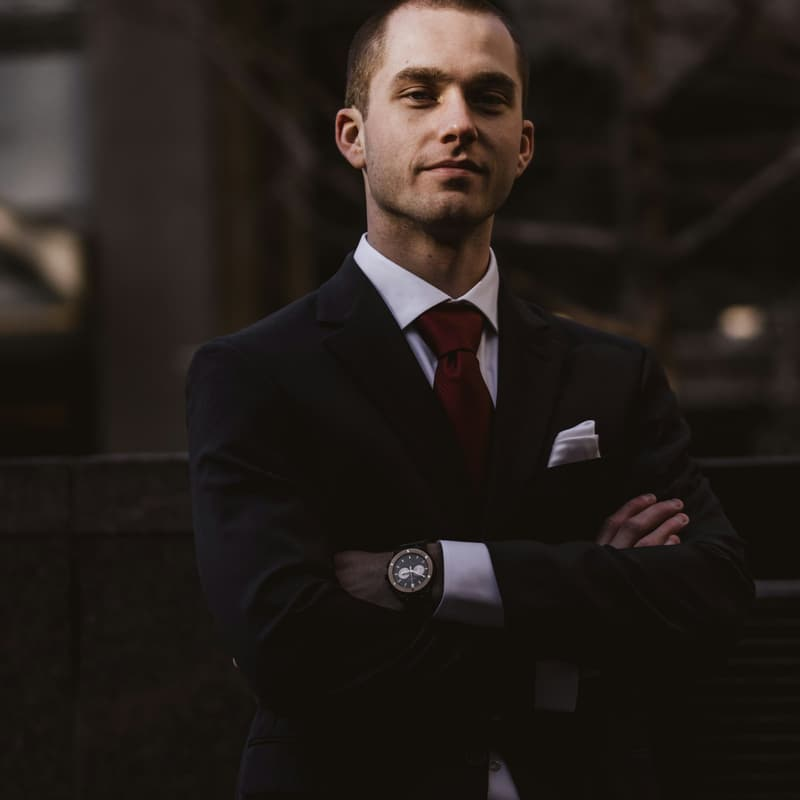
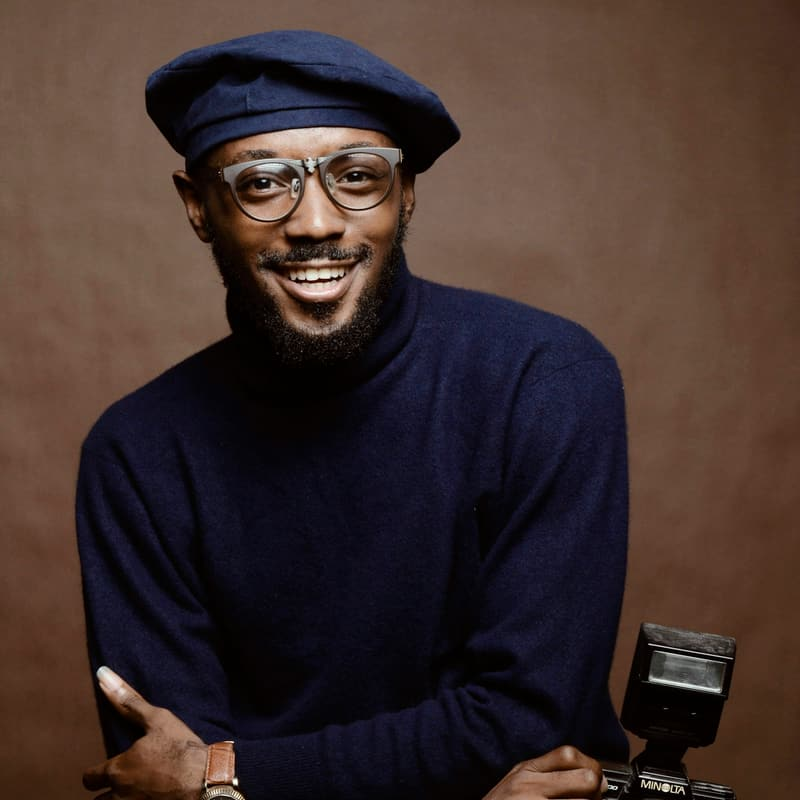
feat: replace founder and board portraits with Black professional photography

diff --git a/src/data/leadership.ts b/src/data/leadership.ts
@@ -16,12 +16,12 @@ export const leadership = {
   headline: "Rooted in community, led with purpose.",
   lead: "SHELIFT is shaped by a founder whose vision grew from lived experience, and guided by a board committed to accountability, transparency, and the communities we serve.",
   founder: {
-    name: "Dorah Nagawa",
+    name: "Dorah Nakagga",
     role: "Founder",
-    title: "Founder, SHELIFT",
+    title: "Founder and Director of SHELIFT",
     image: images.founder,
     paragraphs: [
-      "SHELIFT was inspired by the lived experiences and vision of our founder, Dorah Nagawa — built on real understanding of the barriers adolescent girls, women, and households face in accessing healthcare, education, and economic opportunity in Uganda.",
+      "SHELIFT was inspired by the lived experiences and vision of our founder, Dorah Nakagga — built on real understanding of the barriers adolescent girls, women, and households face in accessing healthcare, education, and economic opportunity in Uganda.",
       "Her leadership keeps communities at the centre of our work, ensuring every program is shaped by the people it is designed to serve.",
     ],
     pull: "Community voices at the heart of every decision.",
@@ -31,7 +31,7 @@ export const leadership = {
   board: [
     {
       id: "board-01",
-      name: "Board Member",
+      name: "Sendaula Emmanuel",
       role: "Governance & Strategy",
       image: images.board01,
       short:
@@ -39,7 +39,7 @@ export const leadership = {
     },
     {
       id: "board-02",
-      name: "Board Member",
+      name: "Musinguzi Emmanuel",
       role: "Finance & Accountability",
       image: images.board02,
       short:
@@ -47,7 +47,7 @@ export const leadership = {
     },
     {
       id: "board-03",
-      name: "Board Member",
+      name: "Nabukenya Sarah",
       role: "Community & Programmes",
       image: images.board03,
       short:

diff --git a/images-credits.md b/images-credits.md
@@ -21,7 +21,7 @@ npm run fetch:photos
 | `hero-04.jpg` | [Woman smiling while working on her laptop](https://unsplash.com/photos/woman-sitting-and-smiling-with-macbook-on-her-lap-e6wu8EiFUB0) | Unsplash |
 | `hero-05.jpg` | [Woman in an orange blazer](https://unsplash.com/photos/woman-in-orange-blazer-standing-AzVexpHvuKY) | Etty Fidele |
 | `about.jpg` | [Woman in a floral dress beside a tree](https://unsplash.com/photos/woman-in-blue-and-yellow-floral-dress-standing-beside-green-leaved-tree-during-daytime-A5an19IyGw0) | Unsplash |
-| `founder.jpg` | Corporate portrait of a Black businesswoman (representative placeholder) | Unsplash |
+| `founder.jpg` | Confident Black businesswoman with arms crossed in corporate attire (representative placeholder) | Unsplash |
 | `health.jpg` | [A woman clinician with a stethoscope](https://unsplash.com/photos/a-woman-wearing-a-white-coat-and-a-stethoscope-TPT4pevJEmQ) | Unsplash |
 | `education.jpg` | [A school child in a green-and-white uniform](https://unsplash.com/photos/boy-in-green-and-white-polo-shirt-AmKMFcROG9o) | Abubakar Balogun |
 | `livelihoods.jpg` | [A group learning together with a laptop](https://unsplash.com/photos/a-group-of-people-sitting-on-a-couch-looking-at-a-laptop) | Iwaria Inc. |
@@ -32,9 +32,9 @@ npm run fetch:photos
 | `story-04.jpg` | [Three women seated around a wooden table](https://unsplash.com/photos/three-women-sitting-beside-wooden-table-c6wbSBaYxkY) | Unsplash |
 | `story-05.jpg` | [Two smiling women in colourful cloth](https://unsplash.com/photos/two-smiling-women-embracing-draped-in-a-colorful-cloth-IWlt48aX9QU) | Unsplash |
 | `cta.jpg` | [People dancing on brown soil, Uganda](https://unsplash.com/photos/people-dancing-on-brown-soil-T6Gig_Rr2dw) | Roman Derrick Okello |
-| `board-01.jpg` | Professional portrait of a Black businessman in a suit (representative placeholder) | Unsplash |
-| `board-02.jpg` | Smiling Black businessman in a suit (representative placeholder) | Unsplash |
-| `board-03.jpg` | Professional portrait of a Black businesswoman (representative placeholder) | Unsplash |
+| `board-01.jpg` | Smiling Black businessman in a classic suit and tie (representative placeholder) | Unsplash |
+| `board-02.jpg` | Portrait of a Black man in professional attire (representative placeholder) | Unsplash |
+| `board-03.jpg` | Smiling Black businesswoman seated at a desk in professional attire (representative placeholder) | Unsplash |
 
 Photo page slugs link to the original Unsplash pages where full contributor
 credit is shown. Where the photographer name is not known to us, links to the
